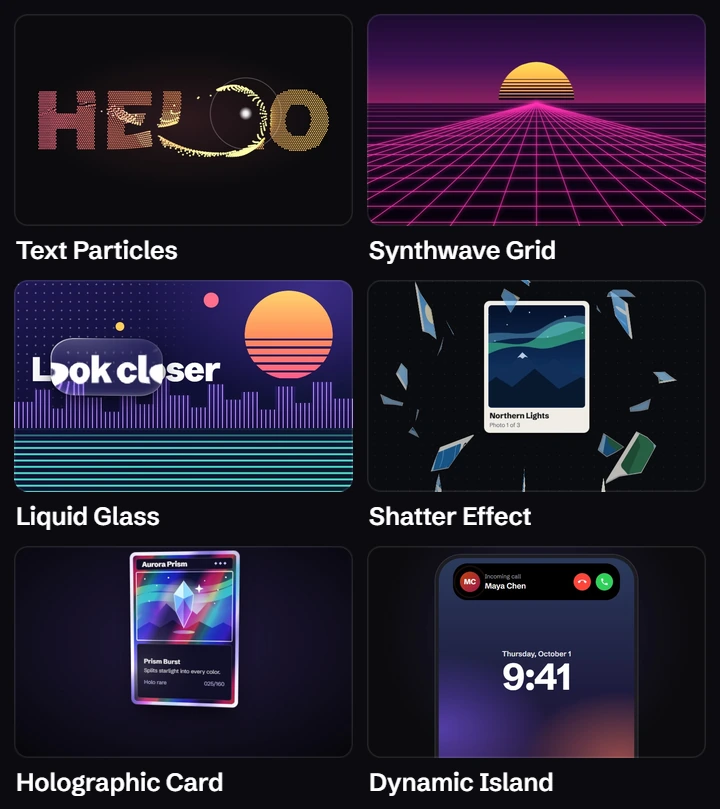
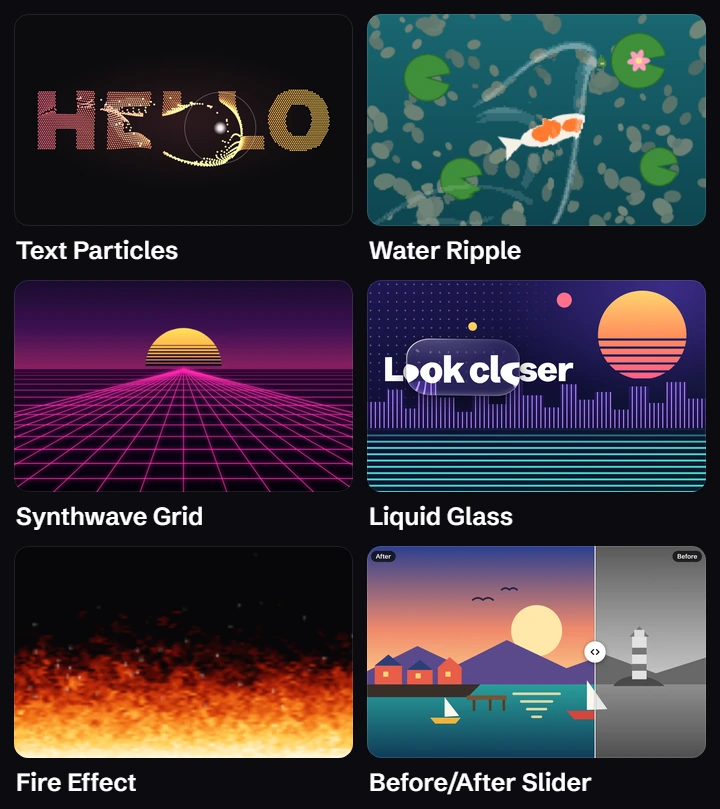
docs: README pictures and texts from today's site
The wall at the top shows six animations again, three of them new (Water Ripple, Fire Effect and Before/After Slider),
and the walkthrough is recorded again from today's home page: the 176 count, the place chips, the Color pop previews,
Success Confetti playing and Copy prompt showing Copied, on desktop and on a phone, with their stills. How to use it
follows the home page's new steps (Pick an animation, See it move, Copy the prompt) and says See inside and Compare are
on every page, and Famous effects gets a section of its own. The changelog lists the steps it was missing, and the hero
spec notes the remake.

diff --git a/README.md b/README.md
@@ -1,6 +1,6 @@
 <div align="center">
 
-<a href="https://matinmonshizadeh.github.io/animation-handbook/"><picture><source media="(prefers-reduced-motion: reduce) and (max-width: 600px)" srcset="docs/hero-phone-still.webp"><source media="(prefers-reduced-motion: reduce)" srcset="docs/hero-still.webp"><source media="(max-width: 600px)" srcset="docs/hero-phone.webp"><img src="docs/hero.webp" alt="Six animations from the handbook playing at once: Text Particles, Synthwave Grid, Liquid Glass, Shatter Effect, Holographic Card, and Dynamic Island, six of its 176 web animation techniques" width="820"></picture></a>
+<a href="https://matinmonshizadeh.github.io/animation-handbook/"><picture><source media="(prefers-reduced-motion: reduce) and (max-width: 600px)" srcset="docs/hero-phone-still.webp"><source media="(prefers-reduced-motion: reduce)" srcset="docs/hero-still.webp"><source media="(max-width: 600px)" srcset="docs/hero-phone.webp"><img src="docs/hero.webp" alt="Six animations from the handbook playing at once: Text Particles, Water Ripple, Synthwave Grid, Liquid Glass, Fire Effect, and Before/After Slider, six of its 176 web animation techniques" width="820"></picture></a>
 
 # Animation Handbook
 
@@ -28,15 +28,17 @@ Everything is plain HTML, CSS, and JavaScript: no build step, no frameworks, no 
 
 ## How to use it
 
-1. **Find it.** On the [home page](https://matinmonshizadeh.github.io/animation-handbook/), pick where the animation goes — Buttons, Text, Images & cards, Backgrounds, Menus & forms, Loading & messages, Page intros, Scrolling, or Page changes — or describe it in your own words, like "a button that bounces when clicked", or, if you saw it somewhere and don't know its name, answer three questions in the [finder](https://matinmonshizadeh.github.io/animation-handbook/?view=find).
-2. **Watch it and try it.** Each page plays the animation, and most offer a few plain settings, such as speed or direction, so you see exactly what you will get. Some pages also have a See inside view, which shows the parts that make the effect (guides, hidden layers, the numbers made visible), and a Compare view, which shows the effect beside a version without its key idea; switch between them above the stage.
-3. **Copy the prompt.** Paste it into your AI assistant. It describes the animation in plain words, with your settings. The cards on the home page have a Copy prompt button too.
-
-**Seen it on a famous site?** [Famous effects](https://matinmonshizadeh.github.io/animation-handbook/famous/) shows effects people admire on well-known websites, the handbook animations that make something similar, and a prompt to build your own.
+1. **Pick an animation.** On the [home page](https://matinmonshizadeh.github.io/animation-handbook/), describe it in your own words, like "a button that bounces when clicked", or pick the part of your page it goes on: Buttons, Text, Images & cards, Backgrounds, Menus & forms, Loading & messages, Page intros, Scrolling, or Page changes. Saw one on a website and don't know its name? Answer three short questions in the [finder](https://matinmonshizadeh.github.io/animation-handbook/?view=find): what moved, when, and how.
+2. **See it move.** Every animation plays live. Open its page to watch it big and try a few simple settings, such as speed or direction, so you see exactly what you will get. Above the demo, **See inside** shows the parts that make the effect (guides, hidden layers, the numbers made visible), and **Compare** shows it beside a version without its key idea.
+3. **Copy the prompt.** Paste it into your AI assistant. It describes the animation in plain words, with your settings. Every card on the home page has a Copy prompt button too.
 
 <div align="center">
 <a href="https://matinmonshizadeh.github.io/animation-handbook/"><picture><source media="(prefers-reduced-motion: reduce) and (max-width: 600px)" srcset="docs/demo-phone-still.webp"><source media="(prefers-reduced-motion: reduce)" srcset="docs/demo-still.webp"><source media="(max-width: 600px)" srcset="docs/demo-phone.webp"><img src="docs/demo.webp" alt="Screen recording of the handbook: on the home page, pressing Buttons brings up cards with live previews, Success Confetti opens and plays its demo, and Copy prompt shows Copied" width="820"></picture></a>
 </div>
+
+## Famous effects
+
+Liked an effect on a well-known website? [Famous effects](https://matinmonshizadeh.github.io/animation-handbook/famous/) gathers effects people admire on such sites. Each one opens with our own working version, says in plain words what you see, names the handbook animations that make something similar, and gives you a prompt to build your own. The handbook is not connected to any of these sites or their owners.
 
 ## Use it from your AI assistant
 

diff --git a/docs/superpowers/specs/2026-10-02-readme-hero-design.md b/docs/superpowers/specs/2026-10-02-readme-hero-design.md
@@ -64,3 +64,14 @@ This is a one-off, made with scratch scripts that are not committed.
   - A palette built from the moving parts only turned the suns pink.
   - Error-diffusion dithering made still areas flicker.
   - Result: 2.86 MB, with no flicker in still areas.
+
+## Remake, 2026-11-04
+The wall was made again for the README refresh, in the same layout and files (`docs/hero.webp`, `hero-phone.webp` and
+their two stills).
+- **The tiles,** in reading order: Text Particles (05), Water Ripple (06), Synthwave Grid (07), Liquid Glass (06), Fire
+  Effect (07), Before/After Slider (02). Three of them are new since the first wall.
+- **Recording:** a virtual clock in 60 Hz steps instead of the screencast, so every frame is exact.
+- **The loop:** 90 frames, 6 s. The four do tiles start their Show me runs 1.5 s apart in reading order. Synthwave Grid
+  plays at 0.972× speed so seven repeats fill 6 s. Fire Effect never repeats, so its first 0.5 s fades into its last
+  frames. Water Ripple needs about 6.4 s to go still, so its last 0.5 s fades into its rest frame.
+- **Encoding:** Pillow, lossy WebP. Desktop 2.97 MB, phone 1.46 MB.

diff --git a/CHANGELOG.md b/CHANGELOG.md
@@ -35,6 +35,14 @@ The main steps of Animation Handbook, newest first, with the number of animation
   from the start.
 - A new animation, Lightning (176 in all): jagged bolts strike from the clouds and light up the sky, with See inside and
   Compare from the start.
+- See inside and Compare on every animation page: See inside shows the parts that make the effect (guides, hidden layers,
+  the numbers made visible), and Compare shows it beside a version without its key idea.
+- Famous effects becomes a gallery: each effect opens in a pop-up with our own working version of it, and its address
+  opens it directly. The page is linked from the home page's top bar too.
+- Every card preview on the home page is drawn again in one bright, consistent style, with one color for each category.
+- The home page: a row of place chips under Good places to start, a Famous effects band, and How it works in new words
+  (Pick an animation, See it move, Copy the prompt).
+- New README pictures: a wall of six animations, three of them new, and a recording of today's home page.
 
 ## 1.0.0 — 2026-10-10
 
